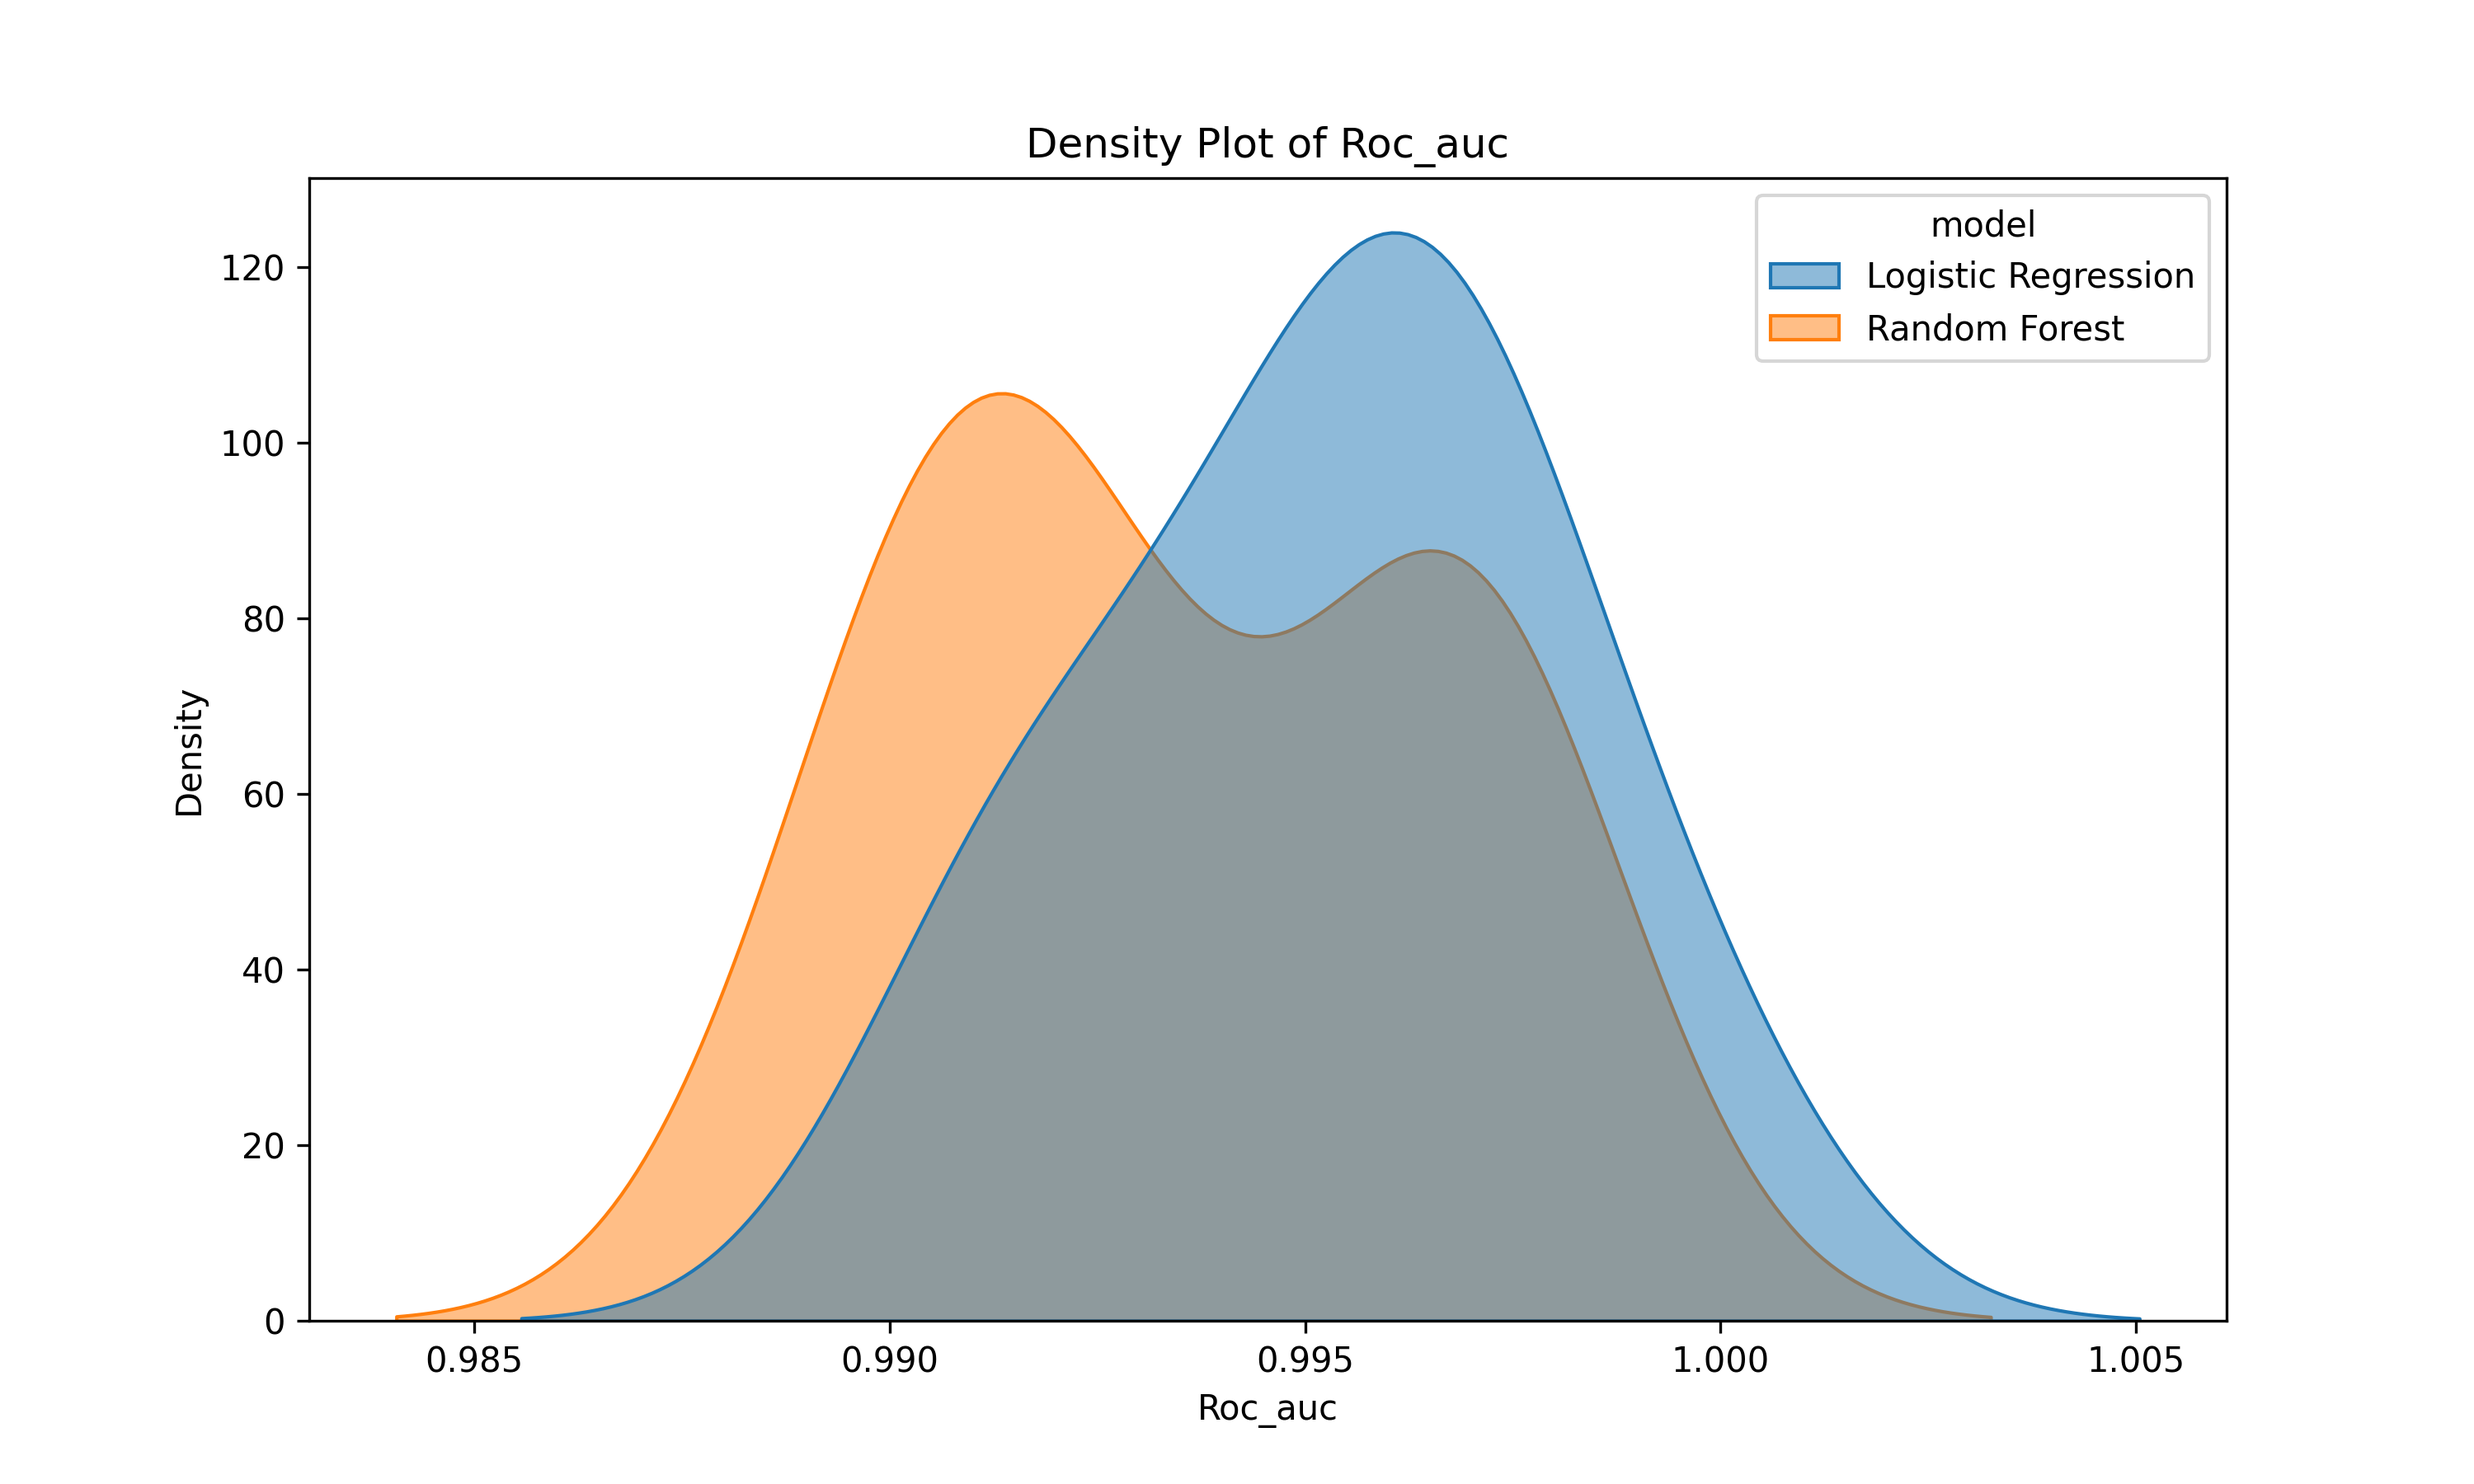
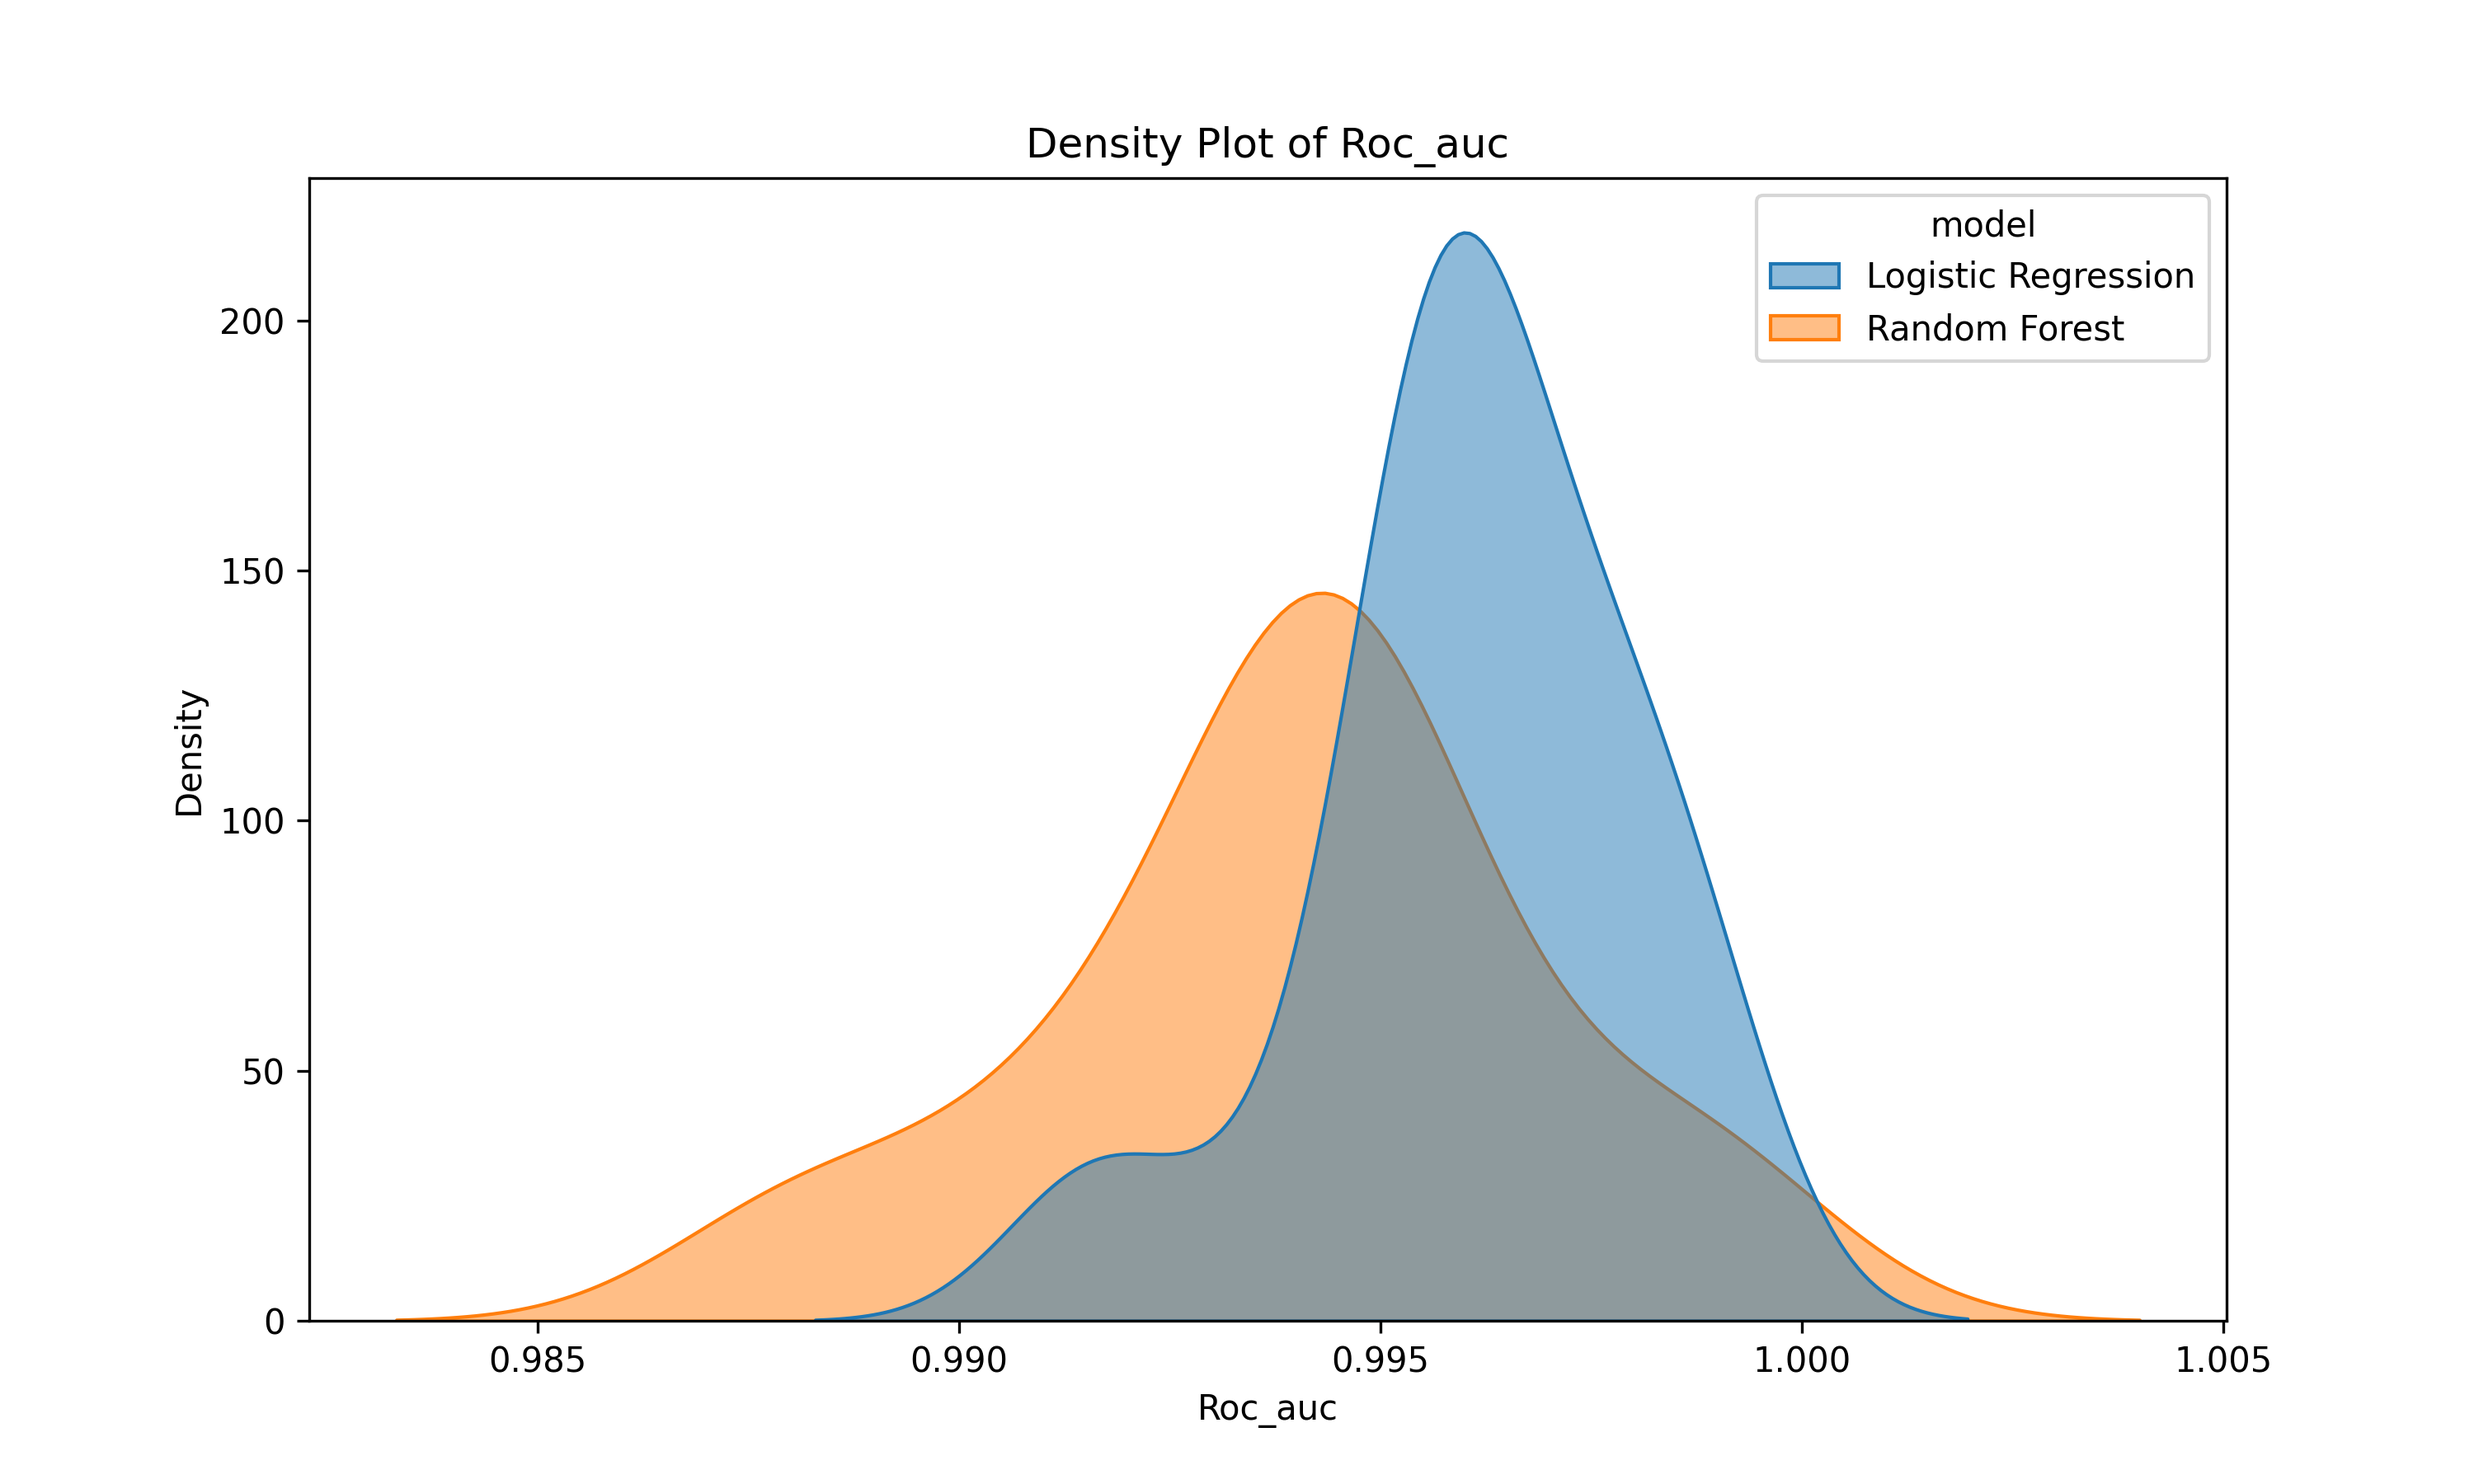
zadanie2 final

diff --git a/cv6/machine_learning/main.py b/cv6/machine_learning/main.py
@@ -50,7 +50,7 @@ def run_experiment(dataset, models, param_grids, logger):
     - results: DataFrame, the results of the experiment.
     """
     logger.info("Starting the experiment...")
-    experiment = Experiment(models, param_grids, logger=logger)
+    experiment = Experiment(models, param_grids, n_replications=25, logger=logger)
     results = experiment.run(dataset.data, dataset.target)
     logger.info("Experiment completed successfully.")
     return experiment, results

diff --git a/cv6/machine_learning/CV6_5_Zadanie_2.md b/cv6/machine_learning/CV6_5_Zadanie_2.md
@@ -36,7 +36,16 @@ Do implementácie pridajte ukladanie všetkých grafov, ktoré sa vytvárajú pr
 
 **V skripte `main.py`** nastavte počet replikácií na vyššie číslo (rozumne, podľa vlastného uváženia). Vykonajte beh aplikácie s Vašou implementáciou. Po skončení behu zanalyzujte vygenerované grafy a pár vetami popíšte ich interpretáciu. (Napr. v čom je ktorý ML model lepší, a pod.)
 
-#TODO - Interpretácia
+navysil som pocet replikacii na 25 zo zakladnych 10.
+
+Grafy Acuracy a Precision per replication ukazuje ze Random Forest model a Logistic Regression model su na tom skoro podobne s rozdielom 0,01
+
+Pri grafoch Density Plot je Logistic regresion na tom lepsie ako Random Forest model najviac pri Accuracy metrik.
+S nastavenim vhodnejsich parametrov by sa mozno dalo docielit lepsich vysledkov pre Random Forest model.
+
+Pri grafoch Average Confusion Matrix je vidiet ze Random Forest model ma skoro 2 krat viac False Positives ako Logistic Regression model, co by dokazovalo ze Random Forest model bol menej presny ako Logistic Regression model pre toto pouzitie.
+
+
 
 **Odovzdávanie riešenia:** Ako súčasť riešenia zahrňte okrem odpovedí na otázky aj skripty s Vašou implementáciou, vygenerované logy a grafy (všetko môžete dať na Github).
 
